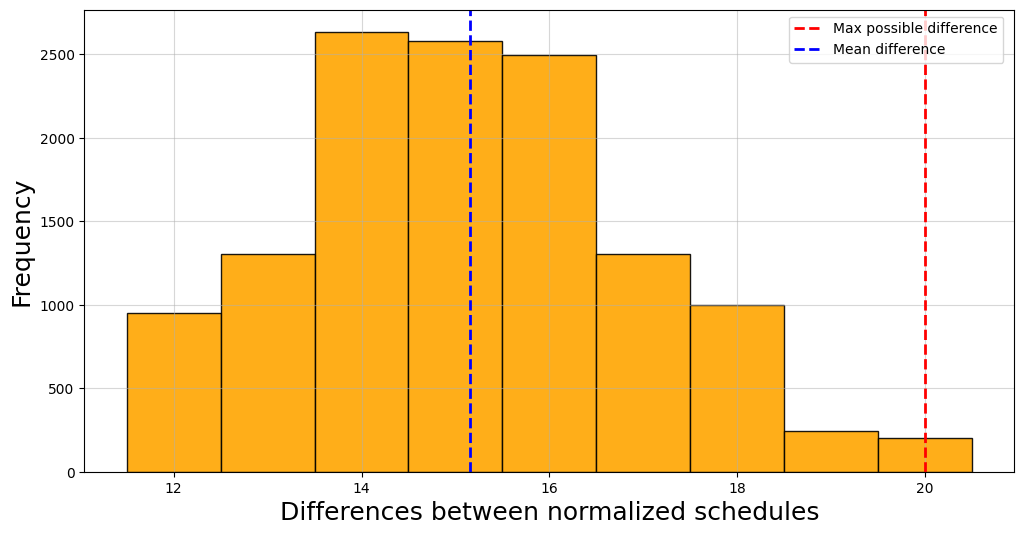
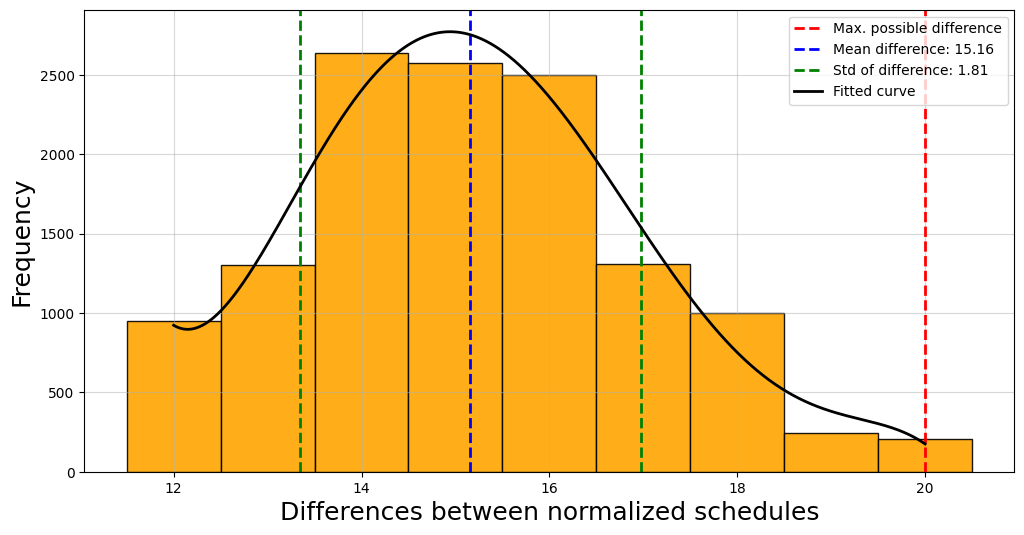
Fitting curves to the plots and adding std

diff --git a/plot.py b/plot.py
@@ -1,6 +1,7 @@
 import matplotlib.pyplot as plt
 import numpy as np
 import sys
+from scipy.stats import linregress, norm
 from calc import *
 
 
@@ -16,7 +17,6 @@ def plot_matchups(max):
     plt.savefig("Plots/matchups.png")
     plt.show()
 
-
 def plot_rounds(max):
     x = range(0, max + 1, 2)
     y = [calc_rounds(n) for n in x]
@@ -29,7 +29,6 @@ def plot_rounds(max):
     plt.title("Number of possible rounds given n teams")
     plt.savefig("Plots/rounds.png")
     plt.show()
-
 
 def plot_upper_bound(max):
     x = range(0, max + 1, 2)
@@ -44,32 +43,41 @@ def plot_upper_bound(max):
     plt.savefig("Plots/upper_bound.png")
     plt.show()
 
-
 def plot_diff_norm(file_path, n, plot_ID, title_add="", show=False):
     differences = [int(diff) for diff in open(file_path, "r").read()[:-1].split(",")]
     name = file_path.split("\\")[-1].split(".")[0].split(" ")[-1]
+    fontsize = 18
     
     if name == "":
         name = title_add + " " + str(n)
 
-    fontsize = 18
-
-    max_diff = calc_matchups(n) - (n//2)
-    min_diff = min(differences)
-    mean_diff = np.mean(differences)
-
-    # Plot type 2 is round based, so the max difference is rounds * teams - teams (since the first round is the same for all schedules)
+    # Plot type 2 is based on home/away assignments
+    # The max difference is 2 * (n-1) * n - n
+    # since the maximum difference is 2 * (n-1) * n and the first round is fixed
     if plot_ID == 2:
         max_diff = 2 * (n-1) * n - n
+    # The max difference is the number of matchups - n//2
+    # since the first round is fixed and there are n//2 matchups in each round
+    else:
+        max_diff = calc_matchups(n) - (n//2)
+    min_diff = min(differences)
+    mean_diff = np.mean(differences)
+    std_diff = np.std(differences)
 
     x_axis = range(min_diff, max_diff + 2)
 
     plt.figure(figsize=(12, 6))
-    plt.hist(differences, bins=x_axis, align='left', color='orange', alpha=0.9, edgecolor='black', linewidth=1)
-    plt.axvline(x=max_diff, color='red', linestyle='--', linewidth=2, label="Max possible difference")
+    freqs, _, _ = plt.hist(differences, bins=x_axis, align='left', color='orange', alpha=0.9, edgecolor='black', linewidth=1)
+
+    plt.axvline(x=max_diff, color='red', linestyle='--', linewidth=2, label="Max. possible difference")
 
     if plot_ID < 3:
-        plt.axvline(x=mean_diff, color='blue', linestyle='--', linewidth=2, label="Mean difference")
+        curve = fit_curve(x_axis, freqs)
+        x_axis_curve = np.linspace(min_diff, max_diff, 1000)
+        plt.axvline(x=mean_diff, color='blue', linestyle='--', linewidth=2, label=f"Mean difference: {mean_diff:.2f}")
+        plt.axvline(x=(mean_diff - std_diff), color='green', linestyle='--', linewidth=2, label=f"Std of difference: {std_diff:.2f}")
+        plt.axvline(x=(mean_diff + std_diff), color='green', linestyle='--', linewidth=2)
+        plt.plot(x_axis_curve, curve(x_axis_curve), color='black', linestyle='-', linewidth=2, label="Fitted curve")
     
     plt.xticks(x_axis[::2])
     plt.xlabel("Differences between normalized schedules", fontsize=fontsize)
@@ -196,7 +204,7 @@ if __name__ == "__main__":
 
     for plot in plots:
         file_path, n, plot_ID, title_add = plot
-        plot_diff_norm(file_path, n, plot_ID, title_add, False)
+        plot_diff_norm(file_path, n, plot_ID, title_add, True)
 
     # plot_uniformity_4()
     # plot_uniformity_sorted_4()

diff --git a/calc.py b/calc.py
@@ -19,6 +19,31 @@ def calc_matchups(n):
 def calc_drr_schedules(n):
     return math.factorial(calc_rounds(n)) // math.factorial(calc_rounds(n) - (n-1)*2)
 
+# Adjusted from: https://www.statology.org/curve-fitting-python/
+def adjusted_R2(x, y, degree):
+    curve = np.polyfit(x, y, degree)
+    p = np.poly1d(curve)
+    yhat = p(x)
+    ybar = np.sum(y)/len(y)
+    ssreg = np.sum((yhat-ybar)**2)
+    sstot = np.sum((y - ybar)**2)
+    result = 1- (((1-(ssreg/sstot))*(len(y)-1))/(len(y)-degree-1))
+    return result, curve
+
+
+def fit_curve(x, y):
+    x = list(x)[:-1]
+    best_fit = 0
+    best_curve = None
+
+    for degree in range(3, 8):
+        result = adjusted_R2(x, y, degree)
+        if result[0] > best_fit:
+            best_fit = result[0]
+            best_curve = result[1]
+
+    return np.poly1d(best_curve)
+
 
 # Verifies one given schedule
 def verify(schedule, matchups, n, count):
